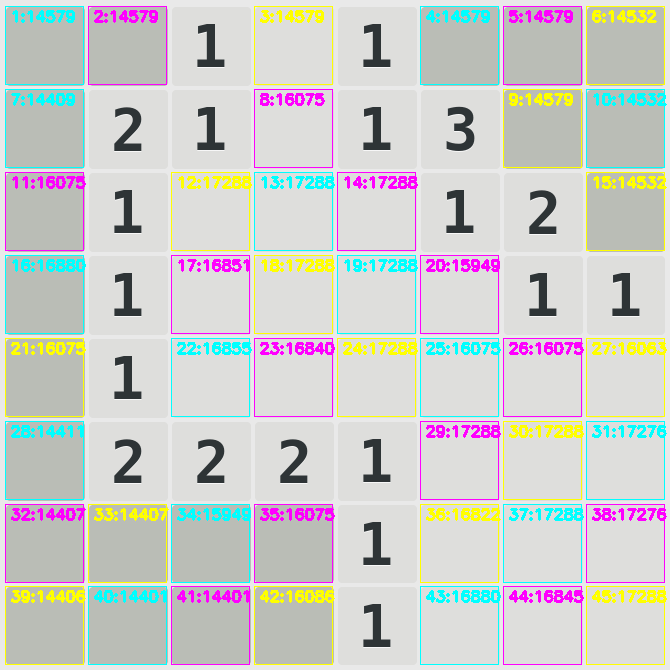
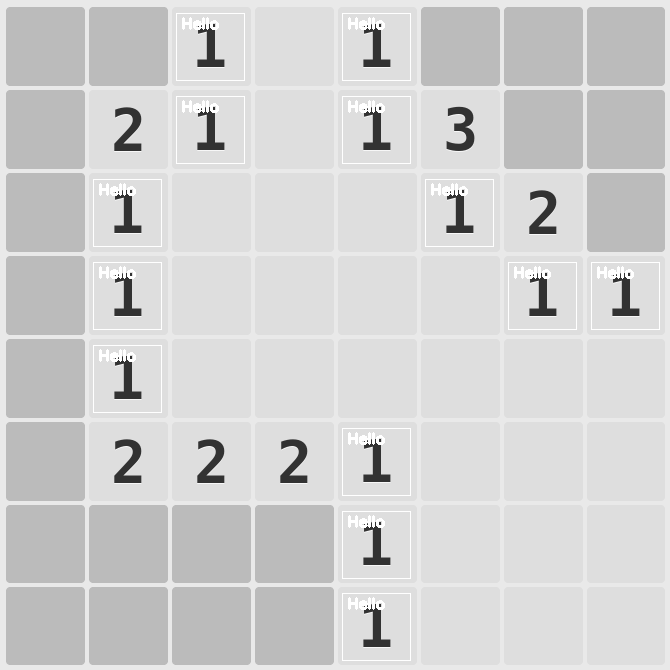
basic working

diff --git a/mines/findImage.py b/mines/findImage.py
@@ -1,0 +1,32 @@
+#!/usr/bin/python
+import cv2
+import numpy as np
+from matplotlib import pyplot as plt
+from operator import add, sub, div, le, lt
+
+def main(image_number):
+	image_name = str(image_number) + '.png'
+	img = cv2.imread('cropped.png')
+	img = cv2.cvtColor(img, cv2.COLOR_BGR2GRAY)
+	total_rows = len(img)
+	number_of_blocks = 8
+	block_size = (total_rows)/number_of_blocks
+	shift = block_size/2
+
+	template = cv2.imread(image_name, 0)
+	w, h = template.shape[::-1]
+
+	# print d,w,h
+	res = cv2.matchTemplate(img, template, cv2.TM_CCOEFF_NORMED)
+	threshold = 0.95
+	loc = np.where(res >= threshold)
+	font = cv2.FONT_HERSHEY_SIMPLEX
+	coordinates = []
+	for pt in zip(*loc[::-1]):
+		# Take the sum of all the rgb values from pt[0] -> pt[0] + w and pt[1] -> pt[1]+h in the form of a tuple and then take average.
+		# Set a minimum deviation from the actual value and if it's in the deviation is in the range, then take that
+		# print 265+pt[0], 91+pt[1]
+		coordinates.append( (int((pt[1]+shift)/block_size), int((pt[0]+shift)/block_size)) )
+		# ^^ It is inverted logic, as the dimensions that we get corresponding to x and y are interchanged for rows and columns
+	print coordinates
+	return coordinates, image_number

diff --git a/mines/images/findImage.py b/mines/images/findImage.py
@@ -1,0 +1,32 @@
+#!/usr/bin/python
+import cv2
+import numpy as np
+from matplotlib import pyplot as plt
+from operator import add, sub, div, le, lt
+
+def main(image_number):
+	image_name = str(image_number) + '.png'
+	img = cv2.imread('cropped.png')
+	img = cv2.cvtColor(img, cv2.COLOR_BGR2GRAY)
+	total_rows = len(img)
+	number_of_blocks = 8
+	block_size = (total_rows)/number_of_blocks
+	shift = block_size/2
+
+	template = cv2.imread(image_name, 0)
+	w, h = template.shape[::-1]
+
+	# print d,w,h
+	res = cv2.matchTemplate(img, template, cv2.TM_CCOEFF_NORMED)
+	threshold = 0.95
+	loc = np.where(res >= threshold)
+	font = cv2.FONT_HERSHEY_SIMPLEX
+	coordinates = []
+	for pt in zip(*loc[::-1]):
+		# Take the sum of all the rgb values from pt[0] -> pt[0] + w and pt[1] -> pt[1]+h in the form of a tuple and then take average.
+		# Set a minimum deviation from the actual value and if it's in the deviation is in the range, then take that
+		# print 265+pt[0], 91+pt[1]
+		coordinates.append( (int((pt[1]+shift)/block_size), int((pt[0]+shift)/block_size)) )
+		# ^^ It is inverted logic, as the dimensions that we get corresponding to x and y are interchanged for rows and columns
+	print coordinates
+	return coordinates, image_number

diff --git a/mines/unOpened.py b/mines/unOpened.py
@@ -1,0 +1,49 @@
+#!/usr/bin/python
+"""
+	returns the array of values corresponding to -1, i.e. unExplored		
+"""
+
+from __future__ import division
+from operator import add, sub, div, le, lt
+import numpy as np
+import cv2
+import sys, os, re, collections
+
+number_of_blocks = 8
+desired = [182, 189, 186]
+return_status = -1
+
+def is_slightly_deviated(col):
+	global desired
+	allowed_deviation = [5,5,5]
+	return np.array(map(le, map(abs, map(sub, col, desired)), allowed_deviation)).all()
+
+
+def main():
+	img = cv2.imread('cropped.png')
+	total_rows = len(img)
+	total_cols = len(img[0])
+
+	block_size = (total_rows)/number_of_blocks
+	shift = block_size/2
+
+	count = 0
+	rows = []
+	for i in xrange(0,number_of_blocks):
+		rows.append((i * block_size) + shift)
+
+	coordinates = []
+	for row_count, row in enumerate(rows):
+		old = img[row]
+		for col_count, col in enumerate(img[row]):
+			if (col == old).all():
+				count += 1
+			else:
+				count = 0
+			if count >= 67:
+				count = 0
+				if is_slightly_deviated(col):
+					coordinates.append((row_count, int(col_count/block_size)))
+			old = col
+	print coordinates, return_status
+	return coordinates, return_status

diff --git a/mines/images/unOpened.py b/mines/images/unOpened.py
@@ -1,0 +1,48 @@
+#!/usr/bin/python
+"""
+	returns the array of values corresponding to -1, i.e. unExplored		
+"""
+
+from __future__ import division
+from operator import add, sub, div, le, lt
+import numpy as np
+import cv2
+import sys, os, re, collections
+
+number_of_blocks = 8
+desired = [182, 189, 186]
+return_status = -1
+
+def is_slightly_deviated(col):
+	global desired
+	allowed_deviation = [5,5,5]
+	return np.array(map(le, map(abs, map(sub, col, desired)), allowed_deviation)).all()
+
+
+def main():
+	img = cv2.imread('cropped.png')
+	total_rows = len(img)
+	total_cols = len(img[0])
+
+	block_size = (total_rows)/number_of_blocks
+	shift = block_size/2
+
+	count = 0
+	rows = []
+	for i in xrange(0,number_of_blocks):
+		rows.append((i * block_size) + shift)
+
+	coordinates = []
+	for row_count, row in enumerate(rows):
+		old = img[row]
+		for col_count, col in enumerate(img[row]):
+			if (col == old).all():
+				count += 1
+			else:
+				count = 0
+			if count >= 67:
+				count = 0
+				if is_slightly_deviated(col):
+					coordinates.append((row_count, int(col_count/block_size)))
+			old = col
+	return coordinates, return_status

diff --git a/mines/solver.py b/mines/solver.py
@@ -1,6 +1,7 @@
 #!/usr/bin/python
 import os, time
 import giveDimensions
+import findNumbers, findUnOpened
 print "Instructions: "
 print "-1: Block not yet revealed."
 print "0: Block revealed and is null"
@@ -128,6 +129,8 @@ class Solver():
 
 
 def getInputOfBlocks():
+	print 'Taking new input'
+	time.sleep(3)
 	global board
 	board = []
 	global positions
@@ -136,13 +139,15 @@ def getInputOfBlocks():
 	for i in POSSIBLE_NUMBERS:
 		positions[str(i)] = []
 
+	os.system('xwininfo -root -tree  | grep -i -e "gnome-mine" -e "Print Cart"| egrep -o "[0-9a-fA-F]+x[0-9a-fA-F]+" | head -1 > id')
+	os.system('xdotool windowactivate `cat id`')
+	time.sleep(0.3)
+	os.system('scrot -q 100 fullScreen.png')
+	os.system('convert -crop 670x670+260+85 fullScreen.png cropped.png')
 	for i in xrange(0,8):
-		a = raw_input().strip()
-		a = map(int, a.split(' '))
-		for j in xrange(0,8):
-			positions[str(a[j])].append((i,j))
-		# print position
-		board.append(a)
+		board.append([0]*8)
+	findNumbers.update_board(board)
+	findUnOpened.update_board(board)
 
 def click(i,j):
 	time.sleep(0.5)

diff --git a/mines/giveDimensions.py b/mines/giveDimensions.py
@@ -7,6 +7,7 @@ from __future__ import division
 # 
 # divisions_x = int(raw_input(""))
 # divisions_y = int(raw_input(""))
+
 def location_extractor():
 	starting_x = 264
 	starting_y = 89

diff --git a/mines/findUnOpened.py b/mines/findUnOpened.py
@@ -1,0 +1,6 @@
+#!/usr/bin/python
+import unOpened
+def update_board(board):
+	coordinates, image_number = unOpened.main()
+	for j in coordinates:
+		board[j[0]][j[1]] = image_number

diff --git a/mines/images/findUnOpened.py b/mines/images/findUnOpened.py
@@ -1,0 +1,6 @@
+#!/usr/bin/python
+import unOpened
+def update_board(board):
+	coordinates, image_number = unOpened.main()
+	for j in coordinates:
+		board[j[0]][j[1]] = image_number
